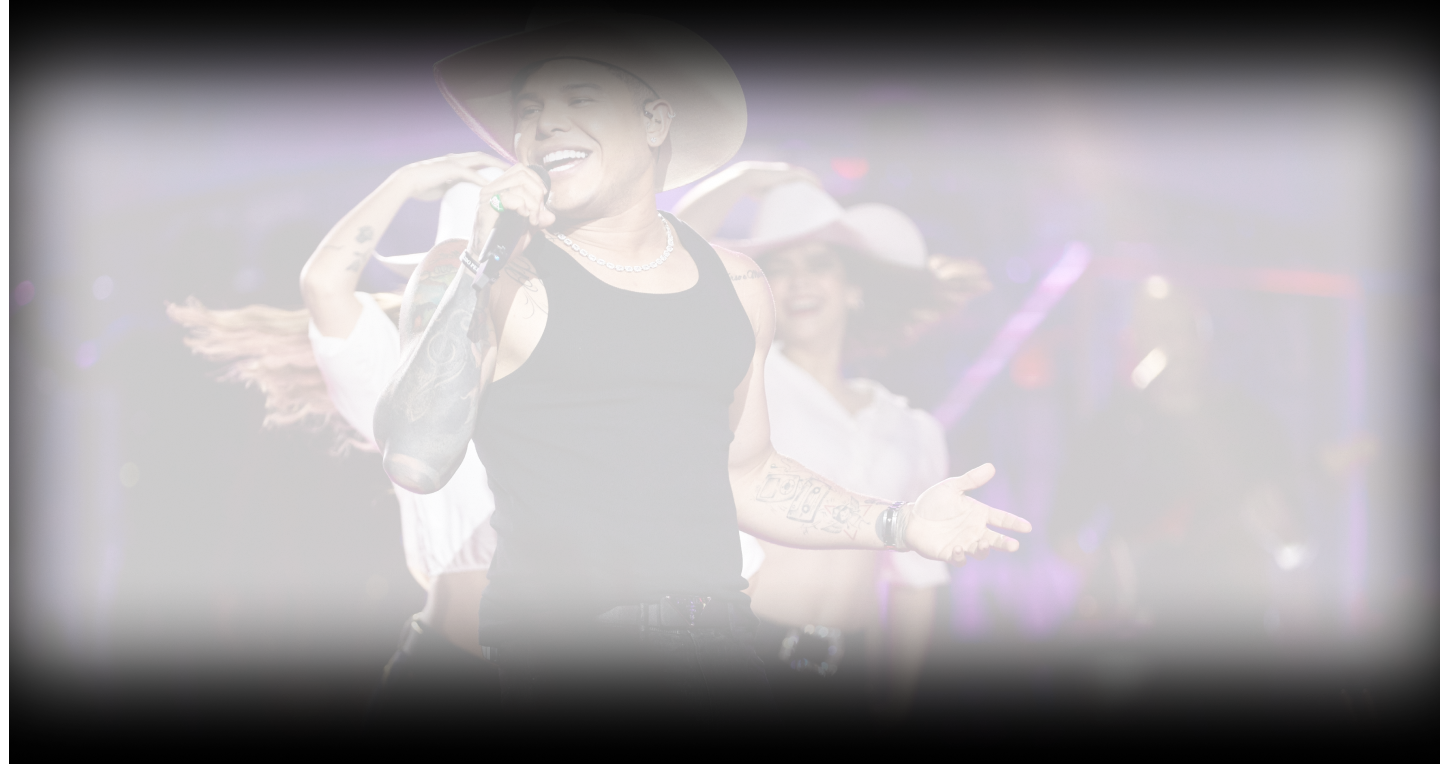
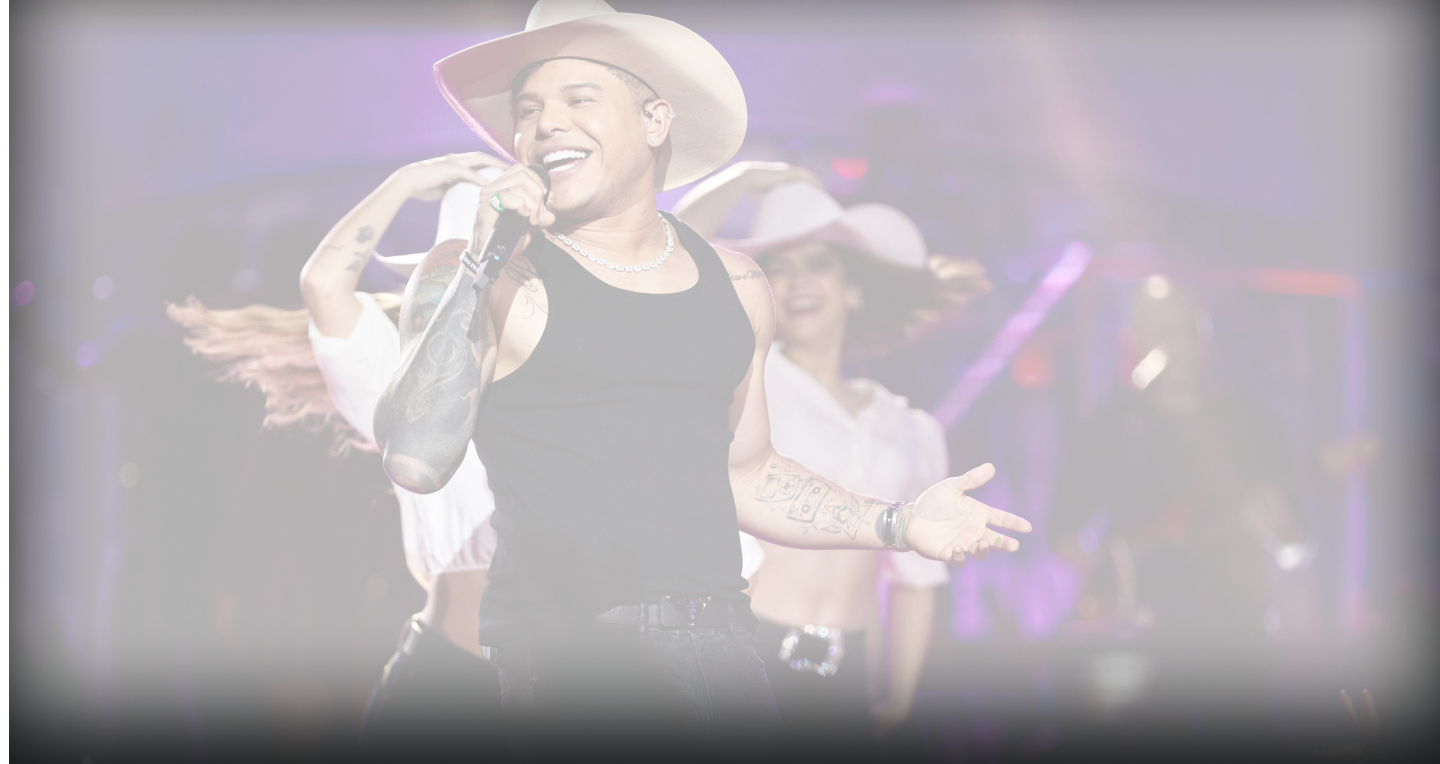
Alterando a identidade visual do site

diff --git a/src/styles/styles.css b/src/styles/styles.css
@@ -11,7 +11,7 @@ html {
     scroll-behavior: smooth;
 }
 body{
-    background-color: black;
+    background-color: #121516;
     font-family: 'Aron', sans-serif;
     overflow-x: hidden;
 }
@@ -172,18 +172,14 @@ header .main-nav a:hover::after{
 }
 
 #agenda h1 {
-    background: linear-gradient(to right, #3CA1FF, #246199);
-    -webkit-background-clip: text;
-    background-clip: text;
-    -webkit-text-fill-color: transparent;
-    color: transparent;
+    color: white;
     font-size: 80px;
     text-align: center;
     text-align: left;
 }
 
 #agenda .back-card {
-    background: linear-gradient(to right, #246199, #3CA1FF);
+    background-color: #CED0D0;
     width: 100%;
     height: 400px;
     max-width: 650px;
@@ -208,6 +204,7 @@ header .main-nav a:hover::after{
     justify-content: center;
     align-items: center;
     flex-direction: column;
+    
 }
 
 #agenda .card-agenda {
@@ -234,18 +231,18 @@ header .main-nav a:hover::after{
 }
 
 #agenda .info h3 {
-    color: white;
+    color: #121516;
     font-size: 26px;
 }
 
 #agenda .info p {
-    color: #eeeeee;
+    color: #121516;
     font-size: 14px;
     max-width: 200px;
 }
 
 #agenda .info a {
-    color: white;
+    color: #121516;
 }
 
 #video iframe{
@@ -266,14 +263,11 @@ header .main-nav a:hover::after{
     flex-direction: column;
     text-align: center;
     padding: 20px;
+    margin: 0 auto;
 }
 
 #musicas h1 {
-    background: linear-gradient(to right, #3CA1FF, #246199);
-    -webkit-background-clip: text;
-    background-clip: text;
-    -webkit-text-fill-color: transparent;
-    color: transparent;
+    color: white;
     font-size: 80px;
     text-align: left; /* Centraliza o título */
 }
@@ -353,7 +347,7 @@ header .main-nav a:hover::after{
     height: 100vh;
     display: flex;
     justify-content: center;
-    margin: 50px auto;
+    margin: -20px auto;
 }
 #contato .container{
     display: flex;
@@ -371,11 +365,7 @@ header .main-nav a:hover::after{
     text-align: center;
 }
 #contato h3{
-    background: linear-gradient(to right, #3CA1FF, #246199);
-    -webkit-background-clip: text;
-    background-clip: text;
-    -webkit-text-fill-color: transparent;
-    color: transparent;
+    color: #CED0D0;
     text-align: center;
     text-align: left;
 }
@@ -443,7 +433,7 @@ footer{
     grid-template-columns: 1fr 1fr 1fr;
     align-items: center;
     justify-content: center;
-    margin: 0 auto;
+    margin: 50px auto;
     width: 1200px;
 }
 #nmr-contato .shows, .Publi, .Imprensa, #nmr-contato a{
@@ -455,20 +445,17 @@ footer{
     gap: 5px;
 }
 #nmr-contato h2{
-    background: linear-gradient(to right, #3CA1FF, #246199);
-    -webkit-background-clip: text;
-    background-clip: text;
-    -webkit-text-fill-color: transparent;
-    color: transparent;
+    color: #CED0D0;
     margin-bottom: 2px;
 }
 #central{
     background-image: url(../../images/background-desktop-central.png);
     background-repeat: no-repeat;
     background-position: auto -10px;
-    height: 100vh;
+    height: 900px;
     justify-content: center;
     display: flex;
+    margin: -150px auto;
 }
 #central .container{
     width: 1000px;
@@ -476,6 +463,7 @@ footer{
     justify-content: center;
     display: flex;
     margin: 0 auto;
+    margin-bottom: 100px;
     flex-direction: column;
 }
 #central .container h1{
@@ -485,11 +473,7 @@ footer{
     width: 200px;
 }
 #central .container p{
-    background: linear-gradient(to right, #3CA1FF, #246199);
-    -webkit-background-clip: text;
-    background-clip: text;
-    -webkit-text-fill-color: transparent;
-    color: transparent;
+    color: #CED0D0;
     margin-bottom: 15px;
     width: 300px;
 }
@@ -498,7 +482,7 @@ footer{
     height: 50px;
     font-family: 'Aron';
     background-color: #11111100;
-    border: 2px solid #246199;
+    border: 2px solid #CED0D0;
     color: white;
     cursor: pointer;
     align-items: center;
@@ -506,8 +490,8 @@ footer{
     transition: 0.5s ease-in-out;
 }
 #central .container button:hover{
-    background-color: #246199;
-    color: white;
+    background-color: #CED0D0;
+    color: black;
 }
 .loader {
     display: flex;
@@ -597,6 +581,7 @@ footer{
         margin: 0 auto;
         width: 100%;
         display: flex;
+        
     }
     #agenda .agenda-h1 {
         font-size: 40px;
@@ -617,8 +602,12 @@ footer{
         width: 150px;
         height: 120px;
     }
+    #agenda .info a{
+        color: white;
+    }
     #agenda .info p {
         font-size: 10px;
+        color: white;
     }
     #agenda .card p:nth-child(1) {
         font-size: 45px;
@@ -629,6 +618,7 @@ footer{
     }
     #agenda .info h3 {
         font-size: 18px;
+        color: white;
     }
     #video{
         margin: 0 auto;
@@ -724,7 +714,7 @@ footer{
     }
     #central{
         background-image: url(../../images/background-mobile-central.png);
-        margin: -150px auto;
+        margin: -50px auto;
         height: 1000px;
     }
     #central .container{
@@ -805,8 +795,12 @@ footer{
         width: 150px;
         height: 120px;
     }
+    #agenda .info a{
+        color: white;
+    }
     #agenda .info p {
         font-size: 10px;
+        color: white;
     }
     #agenda .card p:nth-child(1) {
         font-size: 45px;
@@ -817,6 +811,7 @@ footer{
     }
     #agenda .info h3 {
         font-size: 18px;
+        color: white;
     }
     #video{
         margin: 0 auto;
@@ -911,7 +906,7 @@ footer{
     }
     #central{
         background-image: url(../../images/background-mobile-central.png);
-        margin: -150px auto;
+        margin: -50px auto;
         height: 1000px;
     }
     #central .container{
@@ -996,12 +991,17 @@ footer{
         width: 150px;
         height: 120px;
     }
+    #agenda .info a{
+        color: white;
+    }
     #agenda .info p {
         font-size: 10px;
+        color: white;
     }
 
     #agenda .info h3 {
         font-size: 18px;
+        color: white;
     }
     #video{
         margin: 0 auto;
@@ -1096,7 +1096,7 @@ footer{
     }
     #central{
         background-image: url(../../images/background-mobile-central.png);
-        margin: -150px auto;
+        margin: -50px auto;
         height: 1000px;
     }
     #central .container{
